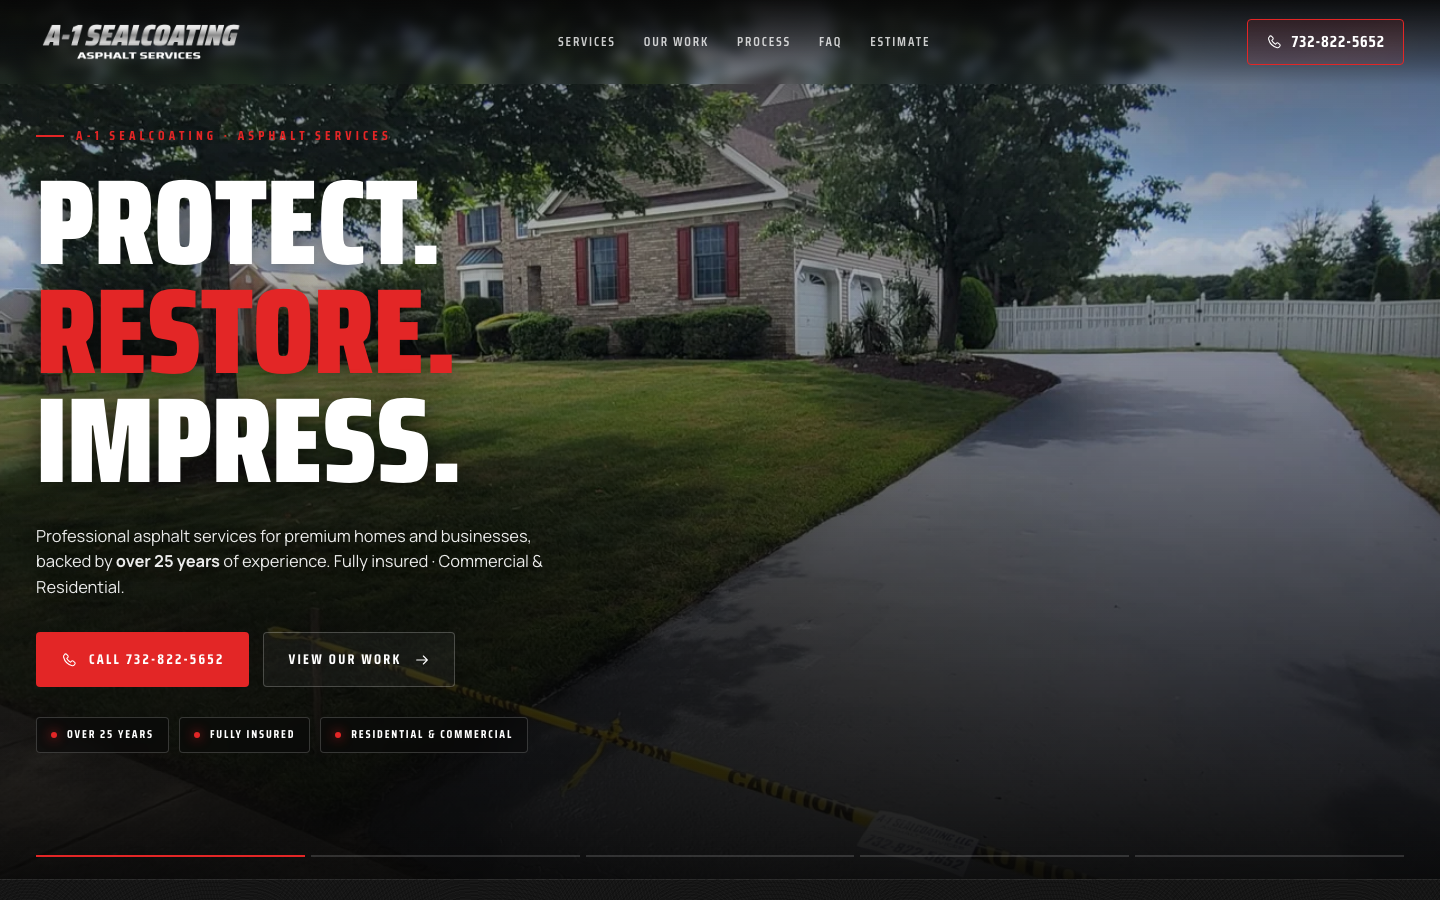
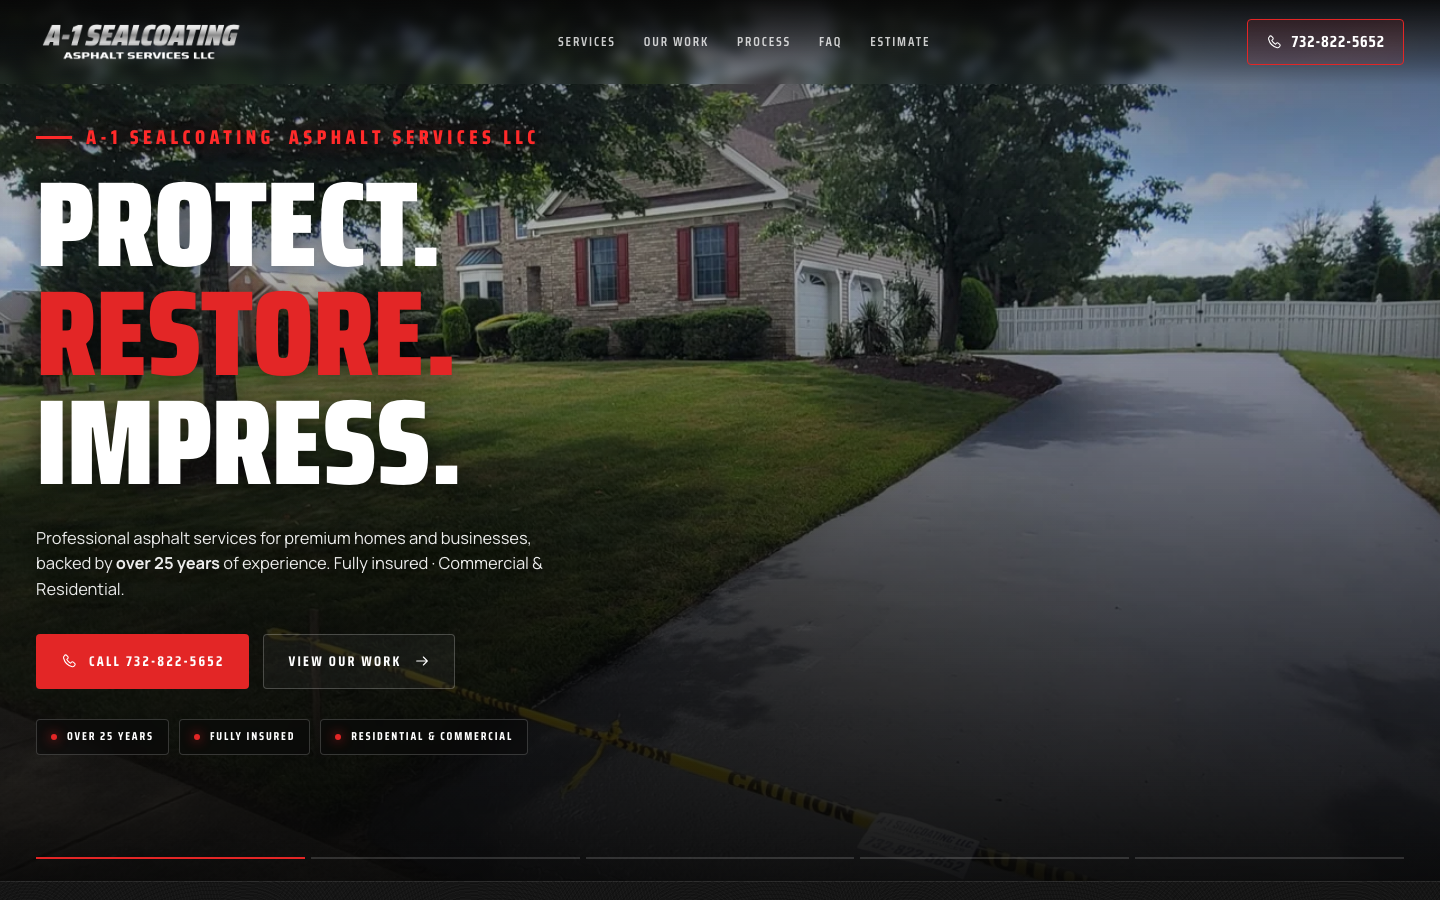
Clarify A-1 homepage brand name
Incorporate full "A-1 Sealcoating Asphalt Services LLC" name per client
feedback. Hero eyebrow promoted to a stronger two-line brand label,
nav logo SVG/PNGs regenerated with "LLC" on the second line, alt/aria
text and meta description updated to match.

diff --git a/src/sites/a1-sealcoating/a1.css b/src/sites/a1-sealcoating/a1.css
@@ -316,6 +316,25 @@
   max-width: clamp(640px, 56vw, 880px);
 }
 .a1-hero__eyebrow { margin-bottom: 22px; }
+.a1-hero__brand {
+  font-size: clamp(15px, 1.5vw, 20px);
+  letter-spacing: 0.22em;
+  font-weight: 800;
+  color: #ff2a2a;
+  text-shadow: 0 2px 14px rgba(0,0,0,0.65), 0 0 22px rgba(227, 38, 38, 0.35);
+  flex-wrap: wrap;
+  row-gap: 4px;
+  column-gap: 14px;
+  line-height: 1.1;
+}
+.a1-hero__brand::before {
+  width: 36px;
+  height: 3px;
+  align-self: center;
+  background: #ff2a2a;
+  box-shadow: 0 0 14px rgba(227, 38, 38, 0.55);
+}
+.a1-hero__brand-line { white-space: nowrap; }
 .a1-hero__title {
   color: var(--a1-white);
   text-shadow: 0 4px 28px rgba(0,0,0,0.65);
@@ -385,6 +404,14 @@
   .a1-hero__badge { padding: 7px 12px; font-size: 11px; }
   .a1-hero__eyebrow { font-size: 11px; letter-spacing: 0.24em; margin-bottom: 14px; }
   .a1-hero__eyebrow::before { width: 20px; }
+  .a1-hero__brand {
+    font-size: 13px;
+    letter-spacing: 0.18em;
+    column-gap: 10px;
+    row-gap: 2px;
+  }
+  .a1-hero__brand::before { width: 24px; height: 2px; }
+  .a1-hero__brand .a1-hero__brand-line { white-space: normal; }
   .a1-hero__title { max-width: 100%; }
   .a1-hero__sub { font-size: 15px; margin-top: 18px; max-width: 38ch; }
   .a1-hero__ctas { gap: 10px; margin-top: 22px; }

diff --git a/src/sites/a1-sealcoating/components/A1Nav.tsx b/src/sites/a1-sealcoating/components/A1Nav.tsx
@@ -23,12 +23,12 @@ export function A1Nav() {
   return (
     <header className={`a1-nav ${scrolled ? 'a1-nav--scrolled' : ''}`}>
       <div className="a1-container a1-nav__inner">
-        <a href="#top" className="a1-nav__brand" aria-label={`${COMPANY.shortName} — home`}>
+        <a href="#top" className="a1-nav__brand" aria-label={`A-1 Sealcoating Asphalt Services LLC — home`}>
           <img
             src="/brand/a1-logo-nav@800w.png"
             srcSet="/brand/a1-logo-nav@480w.png 480w, /brand/a1-logo-nav@800w.png 800w, /brand/a1-logo-nav.png 1200w"
             sizes="(max-width: 880px) 200px, 320px"
-            alt={`${COMPANY.legalName} — ${COMPANY.tagline}`}
+            alt="A-1 Sealcoating Asphalt Services LLC"
             className="a1-nav__logo"
             width={320}
             height={75}

diff --git a/src/sites/a1-sealcoating/components/A1Hero.tsx b/src/sites/a1-sealcoating/components/A1Hero.tsx
@@ -57,7 +57,10 @@ export function A1Hero() {
       <div className="a1-hero__content">
         <div className="a1-container">
           <div className="a1-hero__row">
-            <span className="a1-eyebrow a1-hero__eyebrow">A-1 Sealcoating · Asphalt Services</span>
+            <span className="a1-eyebrow a1-hero__eyebrow a1-hero__brand">
+              <span className="a1-hero__brand-line">A-1 SEALCOATING</span>
+              <span className="a1-hero__brand-line">ASPHALT SERVICES LLC</span>
+            </span>
             <h1 className="a1-h1 a1-hero__title">
               Protect. <em>Restore.</em> Impress.
             </h1>

diff --git a/vite.config.ts b/vite.config.ts
@@ -10,7 +10,7 @@ const SITE_META: Record<Target, SiteMeta> = {
   'a1-sealcoating': {
     title: 'A-1 Sealcoating LLC | Asphalt Services',
     description:
-      'A-1 Sealcoating LLC — asphalt sealcoating, paving, line striping, and crack repair for commercial and residential properties. Fully insured with over 25 years experience.',
+      'A-1 Sealcoating Asphalt Services LLC — professional asphalt sealcoating, paving, line striping, and crack repair for residential and commercial properties. Fully insured with over 25 years experience.',
     themeColor: '#070707',
   },
   platinum: {
